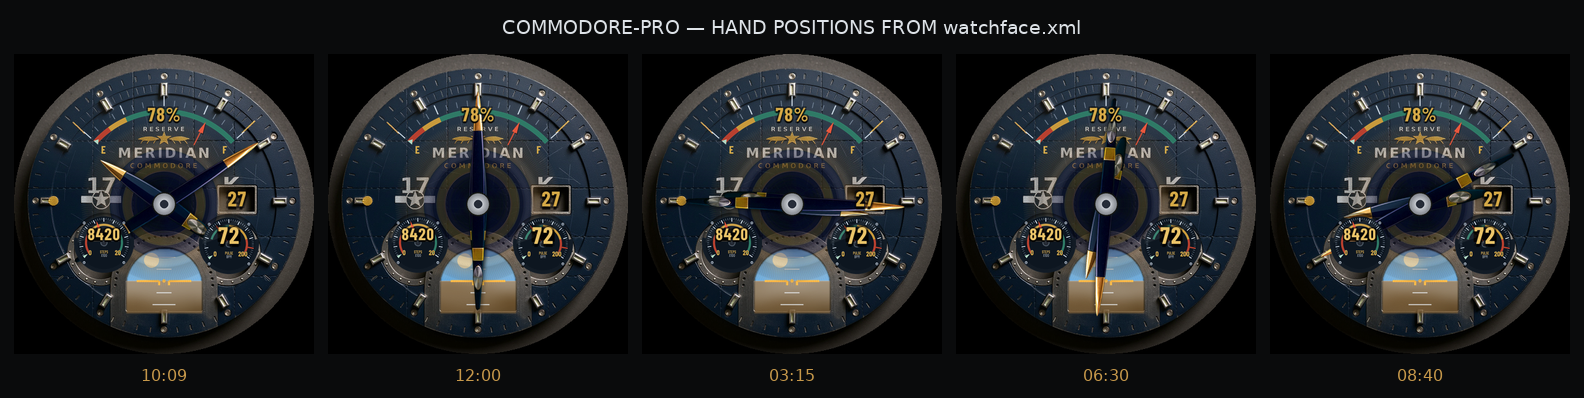
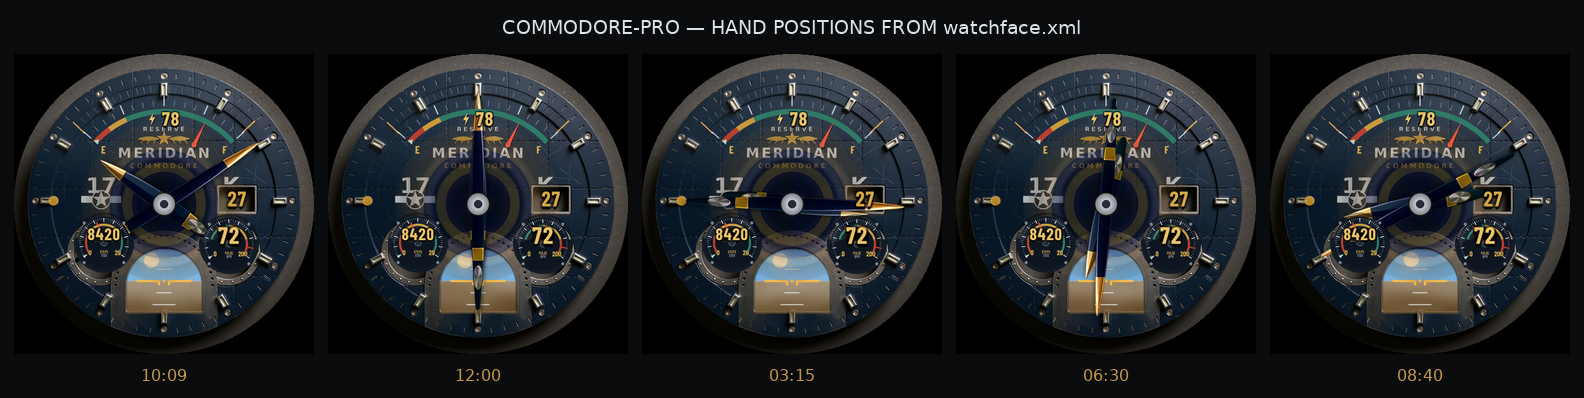
Fuel gauge: a real fuel needle, a power bolt, and no percent sign
THE NEEDLE WAS THE WRONG SHAPE, and the reason is worth keeping. A spade
belongs on an instrument you read a precise value off — altimeter, tach,
manifold pressure — where the widened tip brackets a graduation. A FUEL
pointer is the opposite: a slender blade, widest at the pivot and tapering to
a sharp POINT at the scale, with a counterweight boss at its root. You read a
rough quantity against a coloured band, not a number, so the tip wants to be
a point rather than a bracket. Reshaped, with a highlight on the boss so it
reads as turned metal.

THE POWER BOLT earns its place rather than decorating. The plate says
RESERVE, which is the aviation word for reserve fuel and says nothing about a
battery. This instrument is a fuel gauge by design and a battery gauge by
function, and one glyph resolves that without a word in any language. It sits
left of the readout, with the readout shifted right by half its width, so the
pair reads as one group centred on the dial instead of a number with
something stuck beside it.

THE PERCENT SIGN is gone as asked — and it was never right anyway. A fuel
gauge reads in gallons or in fractions of a tank; it does not carry a percent
sign.

Sizing, measured rather than guessed: the clear band is 24px, between the
arc's inner edge at y=92 and the plate's RESERVE at y=116. At 24 the digits
grazed the arc above and the label below, so the readout is 22 — still up
from the base face's 18, and now clearing both.

Validator PASS, memory footprint PASS.

diff --git a/tools/make_an_gauge.py b/tools/make_an_gauge.py
@@ -433,14 +433,19 @@ def fuel_arc(canvas: int, cx: float, cy: float, r: float, start: float,
 def fuel_needle(canvas: int, cx: float, cy: float, r_tip: float,
                 pal: dict | None = None, r_tail: float | None = None
                 ) -> Image.Image:
-    """The fuel pointer, drawn straight up so the face rotates it by value.
+    """A FUEL POINTER, which is not the same shape as a tachometer's.
 
-    It rides just inside the scale rather than reaching the hub. A sector
-    gauge's pointer does geometrically pivot at the arc's centre — which here
-    is the middle of the watch — but drawn full length it sweeps straight
-    across the MERIDIAN wordmark and the wing emblem. A short pointer beside
-    its own scale is commonplace on real arc instruments and is the only
-    version that does not vandalise the dial.
+    The spade this started as belongs on an instrument you read a precise
+    value off — altimeter, tach, manifold pressure — where the widened tip
+    brackets a graduation. A fuel pointer is the opposite: a slender blade,
+    WIDEST AT THE PIVOT AND TAPERING TO A SHARP POINT at the scale, with a
+    counterweight boss at its root. You are reading a rough quantity against
+    a coloured band, not a number, so the tip wants to be a point rather than
+    a bracket.
+
+    It rides just inside its own scale rather than reaching the hub. A sector
+    pointer does geometrically pivot at the arc's centre — the middle of the
+    watch here — but drawn full length it sweeps across the wordmark.
     """
     p = dict(PALETTE, **(pal or {}))
     S = canvas * SS
@@ -448,17 +453,51 @@ def fuel_needle(canvas: int, cx: float, cy: float, r_tip: float,
     d = ImageDraw.Draw(img)
     CX, CY = cx * SS, cy * SS
     tip = r_tip * SS
-    tail_r = (r_tail if r_tail is not None else r_tip * 0.74) * SS
-    spade = tip - (tip - tail_r) * 0.45
-    ws = max(1, int(SS * 1.7))
-    wsp = max(2, int(SS * 4.2))
-    o = SS * 1.5
-    d.polygon([(CX + o, CY - tip + o), (CX - wsp + o, CY - spade + o),
-               (CX + wsp + o, CY - spade + o)], fill=(0, 0, 0, 120))
-    d.line([(CX, CY - tail_r), (CX, CY - spade)], fill=p["pointer"],
-           width=ws)
-    d.polygon([(CX, CY - tip), (CX - wsp, CY - spade), (CX + wsp, CY - spade)],
+    root = (r_tail if r_tail is not None else r_tip * 0.74) * SS
+    half = max(2.0, SS * 3.1)          # half-width at the root
+    boss = max(2.5, SS * 4.0)
+
+    blade = [(CX, CY - tip),                    # the point
+             (CX - half, CY - root),
+             (CX + half, CY - root)]
+    o = SS * 1.6
+    d.polygon([(x + o, y + o) for x, y in blade], fill=(0, 0, 0, 125))
+    d.ellipse([CX - boss + o, CY - root - boss + o,
+               CX + boss + o, CY - root + boss + o], fill=(0, 0, 0, 110))
+    d.polygon(blade, fill=p["pointer"])
+    # counterweight boss, with a highlight so it reads as turned metal
+    d.ellipse([CX - boss, CY - root - boss, CX + boss, CY - root + boss],
               fill=p["pointer"])
+    d.ellipse([CX - boss * 0.42, CY - root - boss * 0.62,
+               CX + boss * 0.1, CY - root - boss * 0.05],
+              fill=(255, 255, 255, 90))
+    return img.resize((canvas, canvas), Image.LANCZOS)
+
+
+def power_bolt(canvas: int, cx: float, cy: float, h: float,
+               pal: dict | None = None) -> Image.Image:
+    """A lightning bolt, so the top instrument says WHAT it is measuring.
+
+    The plate already reads RESERVE, which is the aviation word for reserve
+    fuel and says nothing about a battery. The gauge is a fuel gauge by
+    design and a battery gauge by function, and one glyph resolves that
+    without a word of explanation in any language.
+    """
+    p = dict(PALETTE, **(pal or {}))
+    S = canvas * SS
+    img = Image.new("RGBA", (S, S), (0, 0, 0, 0))
+    d = ImageDraw.Draw(img)
+    X, Y, H = cx * SS, cy * SS, h * SS
+    w = H * 0.46
+    pts = [(X + w * 0.18, Y - H / 2),
+           (X - w * 0.52, Y + H * 0.10),
+           (X - w * 0.04, Y + H * 0.10),
+           (X - w * 0.22, Y + H / 2),
+           (X + w * 0.52, Y - H * 0.14),
+           (X + w * 0.02, Y - H * 0.14)]
+    o = SS * 1.2
+    d.polygon([(x + o, y + o) for x, y in pts], fill=(0, 0, 0, 150))
+    d.polygon(pts, fill=p["counter"])
     return img.resize((canvas, canvas), Image.LANCZOS)
 
 

diff --git a/tools/make_pro_face.py b/tools/make_pro_face.py
@@ -160,6 +160,11 @@ START_DEG, SWEEP_DEG = 235.0, 250.0
 # The fuel sweep, kept identical to the base face's reserve needle mapping so
 # the needle lands where the plate always expected it to.
 FUEL_START, FUEL_SWEEP, FUEL_R = -48.0, 96.0, 152.0
+# The readout sits BELOW the arc's apex (r=152 puts that at y=88) and above
+# the plate's RESERVE at y=116 — a 26px band, so the number is centred in it
+# rather than straddling the arc as it did at first.
+FUEL_TEXT_CY = 104.0
+BOLT_X = 221.0
 COUNTER_CY = 0.36        # must match make_an_gauge.COUNTER_CY
 
 
@@ -245,8 +250,13 @@ def instruments(pre: str) -> list[str]:
         o += readout(f"z21_{key}", x, ty, n, h, c["digits"], c["src"])
 
     # reserve and date, also enlarged — "all of the important numbers"
-    o += readout("z20_reserve", 196, 80, 88, 34, 22, "BATTERY_PERCENT",
-                 fmt="%d%%", colour="#D6AA47", amb=130)
+    # No percent sign: the owner asked for it gone, and a fuel gauge does
+    # not carry one — a real one reads in gallons or in fractions of a tank.
+    # The clear band is only 24px tall — the arc's inner edge is at y=92 and
+    # the plate's RESERVE starts at y=116 — so 22 is the largest size that
+    # clears both. At 24 the digits grazed the arc above and the label below.
+    o += readout("z20_reserve", 214, int(FUEL_TEXT_CY - 15), 74, 30, 22,
+                 "BATTERY_PERCENT", colour="#EBC468", amb=130)
     # Aperture interior measured off the plate: x 327..386, y 212..251,
     # so its centre is (356.5, 232.5). The base face centred its date on
     # (352, 243) — four pixels left and ten low — and PRO inherited that
@@ -521,8 +531,12 @@ def an_gauges(face: str, dd: Path) -> None:
     # band left on this plate is exactly this sweep — inside the hour
     # markers, above the wordmark, all of it dead navy at r=150.
     pre = cfg(face)["prefix"]
-    G.fuel_arc(480, 240, 240, FUEL_R, FUEL_START, FUEL_SWEEP).save(
-        dd / f"{pre}_fuel_arc.png", optimize=True)
+    arc = G.fuel_arc(480, 240, 240, FUEL_R, FUEL_START, FUEL_SWEEP)
+    # The bolt goes LEFT of the readout and the readout shifts right by half
+    # its width, so the pair reads as one group centred on the dial rather
+    # than a number with something stuck beside it.
+    arc.alpha_composite(G.power_bolt(480, BOLT_X, FUEL_TEXT_CY, 19))
+    arc.save(dd / f"{pre}_fuel_arc.png", optimize=True)
     G.fuel_needle(480, 240, 240, FUEL_R - 5,
                   r_tail=FUEL_R - 46).save(
         dd / f"{pre}_fuel_needle.png", optimize=True)
